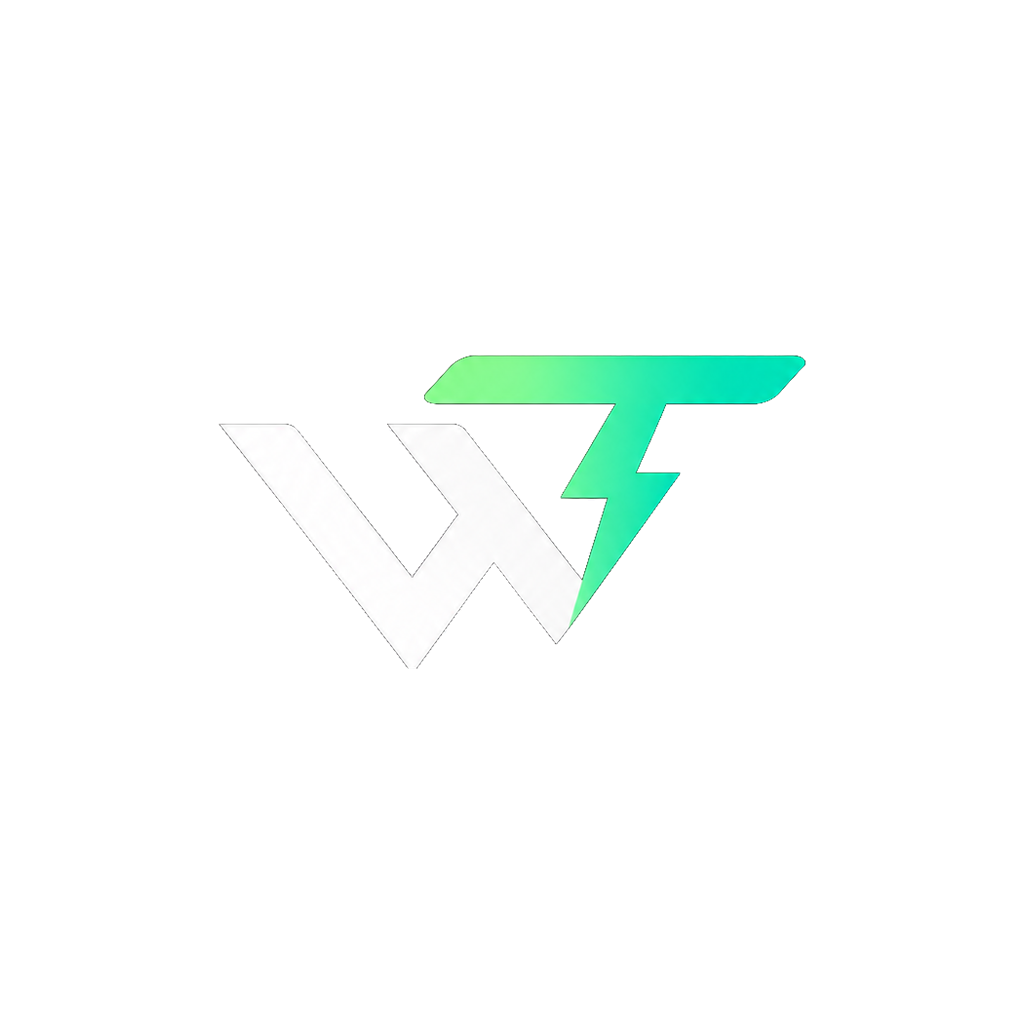
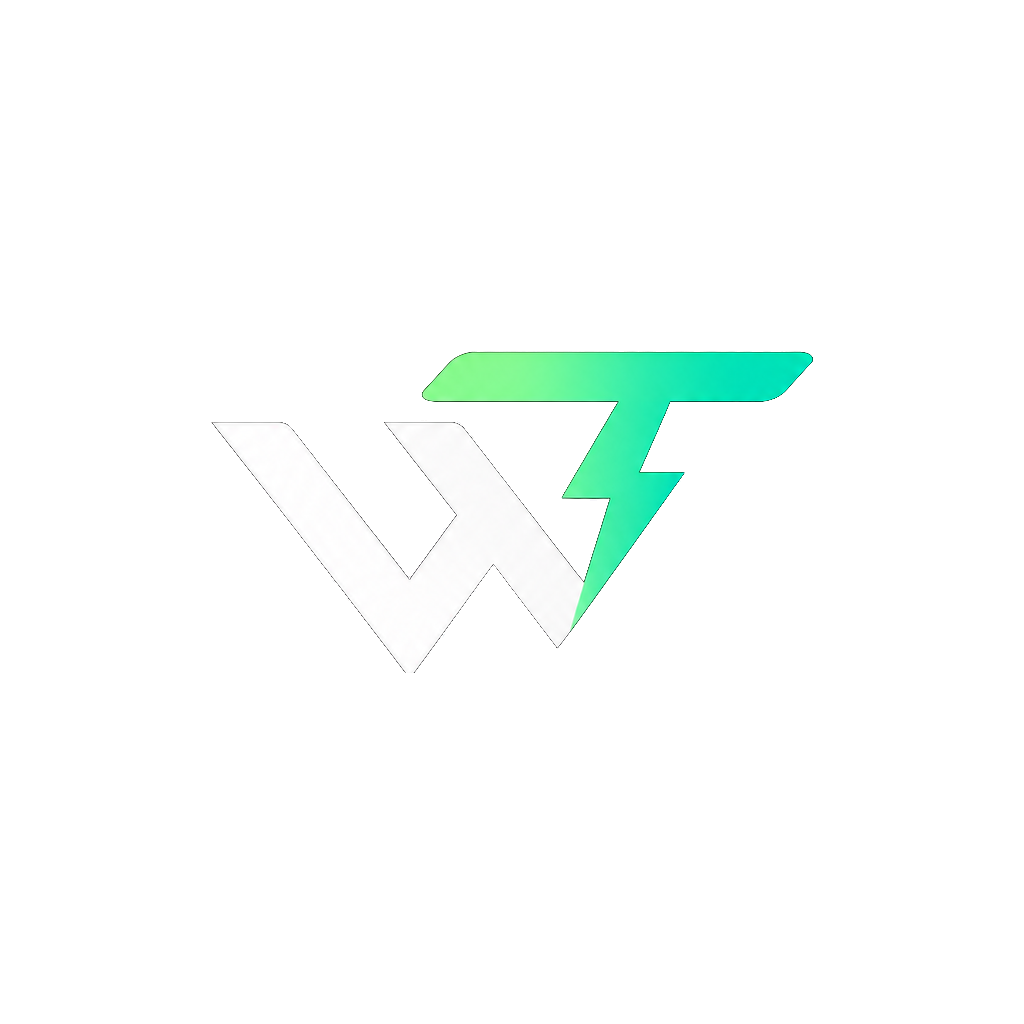
Add store and splash assets

diff --git a/src/components/boot-splash.tsx b/src/components/boot-splash.tsx
@@ -10,19 +10,23 @@ import Animated, {
   withTiming,
 } from 'react-native-reanimated';
 
-const logoMark = require('../../assets/branding/logo-mark.png');
-const logoT = require('../../assets/branding/logo-t.png');
-const BRAND_BACKGROUND = '#04111d';
+import { useAppTheme } from '@/theme/use-app-theme';
+
+const logoLight = require('../../assets/splash/splash-logo-light.png');
+const logoDark = require('../../assets/splash/splash-logo-dark.png');
 
 type BootSplashProps = {
   onReady?: () => void;
 };
 
 export function BootSplash({ onReady }: BootSplashProps) {
+  const theme = useAppTheme();
   const logoOpacity = useSharedValue(0);
   const logoScale = useSharedValue(0.9);
   const glowOpacity = useSharedValue(0.25);
   const glowScale = useSharedValue(0.9);
+  const isDark = theme.mode === 'dark';
+  const logo = isDark ? logoDark : logoLight;
 
   useEffect(() => {
     logoOpacity.value = withTiming(1, {
@@ -75,7 +79,7 @@ export function BootSplash({ onReady }: BootSplashProps) {
         alignItems: 'center',
         justifyContent: 'center',
         gap: 18,
-        backgroundColor: BRAND_BACKGROUND,
+        backgroundColor: isDark ? '#04111d' : '#f4f8fb',
         padding: 24,
       }}
     >
@@ -97,7 +101,7 @@ export function BootSplash({ onReady }: BootSplashProps) {
               width: 128,
               height: 128,
               borderRadius: 999,
-              backgroundColor: 'rgba(45, 212, 191, 0.22)',
+              backgroundColor: isDark ? 'rgba(45, 212, 191, 0.22)' : 'rgba(37, 99, 235, 0.12)',
             },
             glowAnimatedStyle,
           ]}
@@ -107,34 +111,18 @@ export function BootSplash({ onReady }: BootSplashProps) {
           style={[
             {
               width: '100%',
-              aspectRatio: 714 / 434,
+              aspectRatio: 1031 / 561,
             },
             logoAnimatedStyle,
           ]}
         >
-          <Image source={logoMark} resizeMode="contain" style={{ width: '100%', height: '100%' }} />
-          <Animated.Image
-            source={logoT}
-            resizeMode="contain"
-            style={[
-              {
-                position: 'absolute',
-                top: 0,
-                right: 0,
-                bottom: 0,
-                left: 0,
-                width: '100%',
-                height: '100%',
-              },
-              glowAnimatedStyle,
-            ]}
-          />
+          <Image source={logo} resizeMode="contain" style={{ width: '100%', height: '100%' }} />
         </Animated.View>
       </Animated.View>
 
       <Text
         style={{
-          color: '#c9ff45',
+          color: isDark ? '#c9ff45' : '#1d4ed8',
           fontSize: 12,
           fontWeight: '700',
           letterSpacing: 1.8,
@@ -146,7 +134,7 @@ export function BootSplash({ onReady }: BootSplashProps) {
       </Text>
       <Text
         style={{
-          color: '#f5f9ff',
+          color: theme.text,
           fontSize: 15,
           fontWeight: '500',
           textAlign: 'center',

diff --git a/src/app/_layout.tsx b/src/app/_layout.tsx
@@ -141,7 +141,7 @@ export default function RootLayout() {
     return (
       <>
         <BootSplash onReady={handleAnimatedSplashReady} />
-        <StatusBar style="light" />
+        <StatusBar style={theme.mode === 'dark' ? 'light' : 'dark'} />
       </>
     );
   }

diff --git a/assets/store/README.md b/assets/store/README.md
@@ -1,0 +1,13 @@
+# Watt Track Play Store Assets
+
+- `play-store-icon.png` - 512x512 high-res app icon.
+- `feature-graphic.png` - 1024x500 Play Store feature graphic.
+- `screenshots/phone-01-home.png` - real Pixel 5 capture of the Home screen.
+- `screenshots/phone-02-analytics.png` - real Pixel 5 capture of the Analytics screen.
+- `screenshots/phone-03-history.png` - real Pixel 5 capture of the History screen.
+
+Regenerate all runtime, splash, logo, and store assets with:
+
+```sh
+npm run assets:store
+```